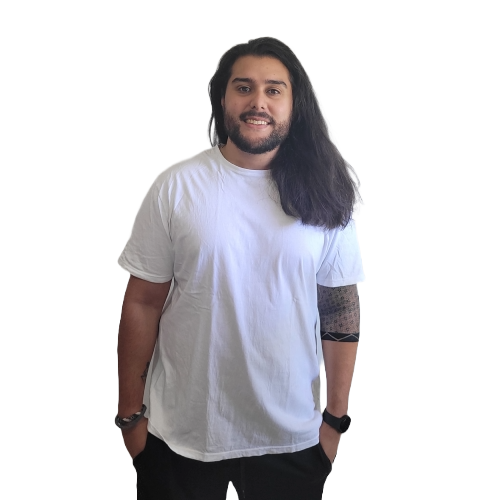
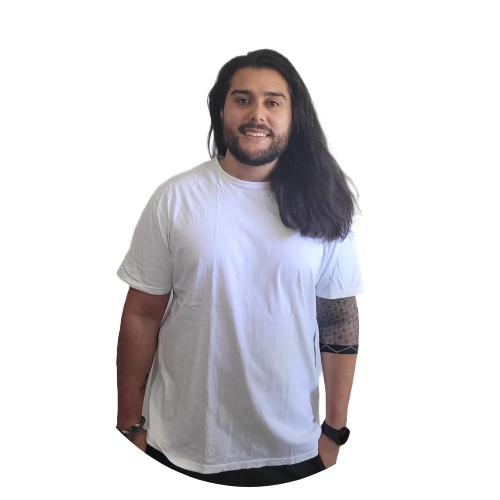
changed svg shape for border in landing image

diff --git a/src/components/LandingImage/index.tsx b/src/components/LandingImage/index.tsx
@@ -11,49 +11,11 @@ export default function LandingImage() {
 
   return (
     <motion.div
-      className='relative flex items-center justify-center'
+      className='relative mb-10 flex items-center justify-center lg:mb-0'
       initial={{ opacity: 0, x: -100 }}
       animate={{ opacity: 1, x: 0 }}
       transition={{ delay: 0.5, ease: 'easeOut' }}
     >
-      <svg
-        viewBox='0 0 100 100'
-        className={`w-[95vw] ${
-          width && width < 600 ? 'max-w-[250px]' : 'max-w-[500px]'
-        }`}
-      >
-        <defs>
-          <linearGradient id='sw-gradient' x1='0' x2='1' y1='1' y2='0'>
-            <stop
-              id='stop1'
-              stopColor={
-                theme === 'dark'
-                  ? COLORS['primary-light']
-                  : COLORS['primary-dark']
-              }
-              offset='0%'
-            ></stop>
-            <stop
-              id='stop2'
-              stopColor={
-                theme === 'dark'
-                  ? COLORS['secondary-light']
-                  : COLORS['secondary-dark']
-              }
-              offset='100%'
-            ></stop>
-          </linearGradient>
-        </defs>
-        <path
-          fill='url(#sw-gradient)'
-          d='M20.8,-34.8C25.3,-29.4,26.3,-20.9,28.2,-13.8C30,-6.6,32.6,-0.8,33.4,5.9C34.1,12.6,33,20.1,29.2,26.3C25.4,32.6,18.9,37.6,11.4,40.7C3.8,43.9,-4.9,45.2,-13.1,43.3C-21.2,41.4,-28.7,36.4,-34,29.8C-39.2,23.1,-42.2,14.8,-42.6,6.6C-43,-1.6,-40.9,-9.6,-37.7,-17.5C-34.6,-25.4,-30.4,-33.1,-23.9,-37.6C-17.5,-42.2,-8.7,-43.6,-0.3,-43.1C8.1,-42.6,16.2,-40.2,20.8,-34.8Z'
-          transform='translate(50 50)'
-          width={width && width < 600 ? 250 : 500}
-          height={width && width < 600 ? 250 : 500}
-          strokeWidth='0'
-          stroke='url(#sw-gradient)'
-        ></path>
-      </svg>
       <Image
         alt='Developer picture'
         width={width && width < 600 ? 250 : 500}
@@ -61,11 +23,19 @@ export default function LandingImage() {
         fill={false}
         priority
         src={theme === 'dark' ? '/images/blackt.webp' : '/images/whitet.webp'}
-        className={`absolute bottom-0 left-0 h-auto w-[95vw] ${
+        className={`h-auto w-[95vw] ${
           width && width < 600 ? 'max-w-[250px]' : 'max-w-[500px]'
         }`}
         style={{
-          clipPath: 'circle(50% at 50% 50%)',
+          filter: `drop-shadow(4px 4px 0 ${
+            theme === 'dark' ? COLORS['primary-light'] : COLORS['primary-dark']
+          }) drop-shadow(-4px 4px 0 ${
+            theme === 'dark' ? COLORS['primary-light'] : COLORS['primary-dark']
+          }) drop-shadow(4px -4px 0 ${
+            theme === 'dark' ? COLORS['primary-light'] : COLORS['primary-dark']
+          }) drop-shadow(-4px -4px 0 ${
+            theme === 'dark' ? COLORS['primary-light'] : COLORS['primary-dark']
+          }) drop-shadow(0 25px 25px rgb(0 0 0 / 0.25))`,
         }}
       />
     </motion.div>

diff --git a/tailwind.config.ts b/tailwind.config.ts
@@ -15,6 +15,22 @@ const config: Config = {
         'secondary-dark': '#25234a',
         'secondary-light': '#FFEFCB',
       },
+      dropShadow: {
+        "border-dark": [
+          "4px 4px 0 #F6E3BA",
+          "-4px -4px 0 #F6E3BA",
+          "4px -4px 0 #F6E3BA",
+          "-4px 4px 0 #F6E3BA",
+          "0 25px 25px rgb(0 0 0 / 0.15)"
+        ],
+        "border-light": [
+          "4px 4px 0 #00003f",
+          "-4px -4px 0 #00003f",
+          "4px -4px 0 #00003f",
+          "-4px 4px 0 #00003f",
+          "0 25px 25px rgb(0 0 0 / 0.15)"
+        ],
+      }
     },
   },
   plugins: [],
